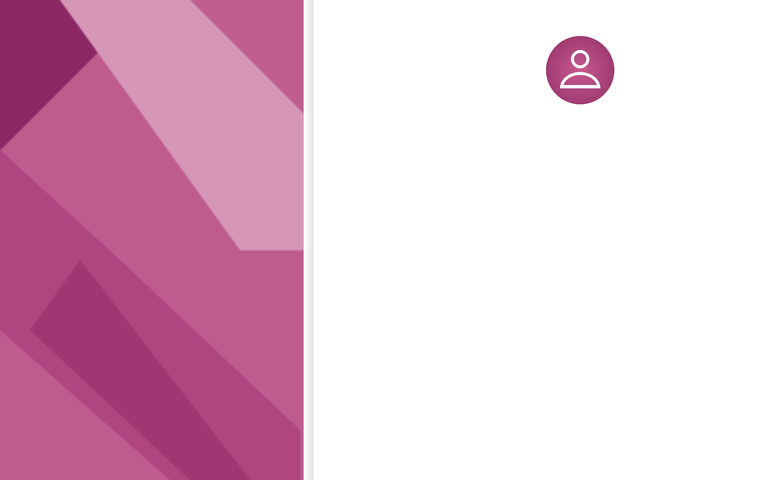
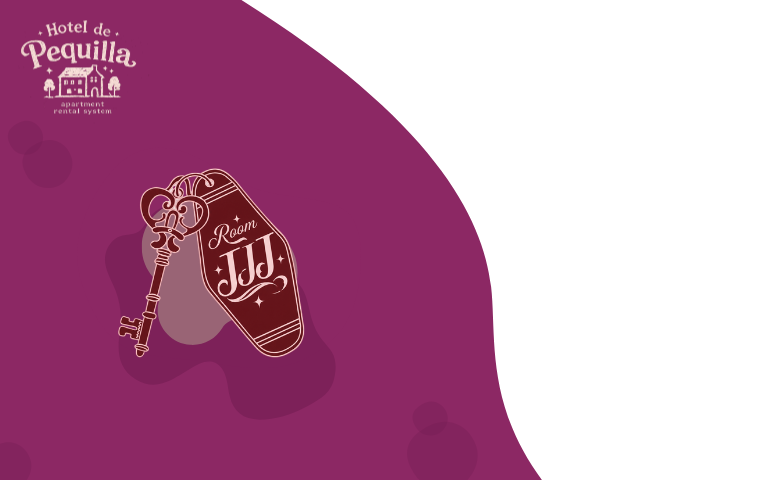
Final design for Log-In

diff --git a/src/ui/LoginFrame.java b/src/ui/LoginFrame.java
@@ -1,16 +1,25 @@
 package ui;
 
 import dao.UserDAO;
+import java.awt.Color;
+import java.awt.Dimension;
 import java.sql.SQLException;
+import javax.swing.BorderFactory;
 import javax.swing.JOptionPane;
 import model.User;
 import util.ErrorHelper;
 import util.Session;
 import util.Validator;
-import java.awt.Color;
-import java.awt.Dimension;
 
+
+ 
 public class LoginFrame extends javax.swing.JFrame {
+
+
+    private static final Color PLUM   = new Color(140, 40, 100);   
+    private static final Color MAUVE  = new Color(153, 100, 117);  
+    private static final Color MAROON = new Color(100, 20, 26);    
+    private static final Color LINE   = new Color(190, 160, 180);  
 
     private final UserDAO userDao = new UserDAO();
 
@@ -19,22 +28,34 @@ public class LoginFrame extends javax.swing.JFrame {
         initComponents();
 
         setDefaultCloseOperation(EXIT_ON_CLOSE);
-        getRootPane().setDefaultButton(btnLogin);
-        getContentPane().setPreferredSize(new Dimension(760, 480));    // your picture's size
+        setResizable(false);
+        getRootPane().setDefaultButton(btnLogin);                      
+        getContentPane().setPreferredSize(new Dimension(760, 480));    
         pack();
         setLocationRelativeTo(null);
 
-        // button colors (Windows needs this one line each)
-        PillButtonUI.apply(btnLogin, new Color(190, 92, 142), Color.WHITE);
-        PillButtonUI.apply(btnClear, new Color(160, 160, 160), Color.WHITE);
-        PillButtonUI.apply(btnExit,  new Color(190, 50, 50),  Color.WHITE);
+
+        for (javax.swing.JTextField t : new javax.swing.JTextField[]{txtUsername, txtPassword}) {
+            t.setForeground(Theme.TEXT);
+            t.setCaretColor(PLUM);
+            t.setBorder(BorderFactory.createCompoundBorder(
+                    BorderFactory.createLineBorder(LINE),
+                    BorderFactory.createEmptyBorder(4, 8, 4, 8)));
+        }
+
+
+        PillButtonUI.apply(btnLogin, PLUM,   Color.WHITE);
+        PillButtonUI.apply(btnClear, MAUVE,  Color.WHITE);
+        PillButtonUI.apply(btnExit,  MAROON, Color.WHITE);
 
         txtUsername.requestFocus();
     }
+
     // <editor-fold defaultstate="collapsed" desc="Generated Code">//GEN-BEGIN:initComponents
     private void initComponents() {
 
-        lblTitle = new javax.swing.JLabel();
+        lblWelcome = new javax.swing.JLabel();
+        lblSubtitle = new javax.swing.JLabel();
         lblUsername = new javax.swing.JLabel();
         txtUsername = new javax.swing.JTextField();
         lblPassword = new javax.swing.JLabel();
@@ -42,92 +63,87 @@ public class LoginFrame extends javax.swing.JFrame {
         btnLogin = new javax.swing.JButton();
         btnClear = new javax.swing.JButton();
         btnExit = new javax.swing.JButton();
-        jLabel1 = new javax.swing.JLabel();
 
         setDefaultCloseOperation(javax.swing.WindowConstants.EXIT_ON_CLOSE);
-        setTitle("LOGIN");
-        setBackground(new java.awt.Color(51, 0, 51));
-        setForeground(java.awt.Color.yellow);
-        setPreferredSize(new java.awt.Dimension(760, 480));
-        setResizable(false);
-        setSize(new java.awt.Dimension(21, 12));
+        setTitle("Login");
 
-        lblTitle.setFont(new java.awt.Font("Segoe UI", 1, 14)); // NOI18N
-        lblTitle.setForeground(new java.awt.Color(255, 0, 153));
-        lblTitle.setText("APARTMENT RENTAL MANAGEMENT SYSTEM");
+        lblWelcome.setFont(new java.awt.Font("Georgia", 1, 28)); // NOI18N
+        lblWelcome.setForeground(new java.awt.Color(140, 40, 100));
+        lblWelcome.setText("Welcome");
 
-        lblUsername.setText("Username:");
+        lblSubtitle.setForeground(new java.awt.Color(130, 110, 125));
+        lblSubtitle.setText("Sign in to continue");
 
-        txtUsername.setText("Enter your username");
-        txtUsername.setBorder(javax.swing.BorderFactory.createLineBorder(new java.awt.Color(0, 0, 0)));
+        lblUsername.setFont(new java.awt.Font("Segoe UI", 1, 11)); // NOI18N
+        lblUsername.setForeground(new java.awt.Color(60, 40, 55));
+        lblUsername.setText("USERNAME");
+
+        txtUsername.setFont(new java.awt.Font("Segoe UI", 0, 13)); // NOI18N
         txtUsername.addActionListener(this::txtUsernameActionPerformed);
 
-        lblPassword.setText("Password:");
+        lblPassword.setFont(new java.awt.Font("Segoe UI", 1, 11)); // NOI18N
+        lblPassword.setForeground(new java.awt.Color(60, 40, 55));
+        lblPassword.setText("PASSWORD");
 
-        txtPassword.setBorder(javax.swing.BorderFactory.createLineBorder(new java.awt.Color(0, 0, 0)));
+        txtPassword.setFont(new java.awt.Font("Segoe UI", 0, 13)); // NOI18N
 
-        btnLogin.setText("LOGIN");
+        btnLogin.setFont(new java.awt.Font("Segoe UI", 1, 13)); // NOI18N
+        btnLogin.setText("LOG IN");
         btnLogin.addActionListener(this::btnLoginActionPerformed);
 
+        btnClear.setFont(new java.awt.Font("Segoe UI", 1, 12)); // NOI18N
         btnClear.setText("CLEAR");
         btnClear.addActionListener(this::btnClearActionPerformed);
 
+        btnExit.setFont(new java.awt.Font("Segoe UI", 1, 12)); // NOI18N
         btnExit.setText("EXIT");
         btnExit.addActionListener(this::btnExitActionPerformed);
-
-        jLabel1.setFont(new java.awt.Font("Segoe UI Semibold", 0, 14)); // NOI18N
-        jLabel1.setForeground(new java.awt.Color(255, 0, 200));
-        jLabel1.setText("LOG-IN");
 
         javax.swing.GroupLayout layout = new javax.swing.GroupLayout(getContentPane());
         getContentPane().setLayout(layout);
         layout.setHorizontalGroup(
             layout.createParallelGroup(javax.swing.GroupLayout.Alignment.LEADING)
             .addGroup(javax.swing.GroupLayout.Alignment.TRAILING, layout.createSequentialGroup()
-                .addContainerGap(375, Short.MAX_VALUE)
+                .addContainerGap(533, Short.MAX_VALUE)
                 .addGroup(layout.createParallelGroup(javax.swing.GroupLayout.Alignment.LEADING)
                     .addGroup(layout.createSequentialGroup()
-                        .addGroup(layout.createParallelGroup(javax.swing.GroupLayout.Alignment.TRAILING)
-                            .addComponent(lblPassword)
-                            .addComponent(lblUsername))
-                        .addPreferredGap(javax.swing.LayoutStyle.ComponentPlacement.RELATED)
-                        .addGroup(layout.createParallelGroup(javax.swing.GroupLayout.Alignment.LEADING, false)
-                            .addComponent(txtUsername)
-                            .addComponent(txtPassword, javax.swing.GroupLayout.PREFERRED_SIZE, 176, javax.swing.GroupLayout.PREFERRED_SIZE)))
-                    .addComponent(lblTitle)
-                    .addGroup(layout.createSequentialGroup()
-                        .addGap(2, 2, 2)
-                        .addGroup(layout.createParallelGroup(javax.swing.GroupLayout.Alignment.LEADING, false)
-                            .addComponent(btnLogin, javax.swing.GroupLayout.PREFERRED_SIZE, 241, javax.swing.GroupLayout.PREFERRED_SIZE)
-                            .addGroup(layout.createSequentialGroup()
-                                .addComponent(btnExit, javax.swing.GroupLayout.PREFERRED_SIZE, 112, javax.swing.GroupLayout.PREFERRED_SIZE)
-                                .addPreferredGap(javax.swing.LayoutStyle.ComponentPlacement.RELATED)
-                                .addComponent(btnClear, javax.swing.GroupLayout.PREFERRED_SIZE, 123, javax.swing.GroupLayout.PREFERRED_SIZE))))
-                    .addComponent(jLabel1))
-                .addGap(78, 78, 78))
+                        .addComponent(lblWelcome)
+                        .addPreferredGap(javax.swing.LayoutStyle.ComponentPlacement.RELATED, 35, javax.swing.GroupLayout.PREFERRED_SIZE))
+                    .addGroup(javax.swing.GroupLayout.Alignment.TRAILING, layout.createParallelGroup(javax.swing.GroupLayout.Alignment.LEADING)
+                        .addComponent(lblSubtitle)
+                        .addComponent(lblUsername)
+                        .addComponent(txtUsername, javax.swing.GroupLayout.PREFERRED_SIZE, 170, javax.swing.GroupLayout.PREFERRED_SIZE)
+                        .addComponent(lblPassword)
+                        .addComponent(txtPassword, javax.swing.GroupLayout.PREFERRED_SIZE, 170, javax.swing.GroupLayout.PREFERRED_SIZE)
+                        .addComponent(btnLogin, javax.swing.GroupLayout.PREFERRED_SIZE, 170, javax.swing.GroupLayout.PREFERRED_SIZE)
+                        .addGroup(layout.createSequentialGroup()
+                            .addComponent(btnClear, javax.swing.GroupLayout.PREFERRED_SIZE, 80, javax.swing.GroupLayout.PREFERRED_SIZE)
+                            .addGap(10, 10, 10)
+                            .addComponent(btnExit, javax.swing.GroupLayout.PREFERRED_SIZE, 80, javax.swing.GroupLayout.PREFERRED_SIZE))))
+                .addGap(33, 33, 33))
         );
         layout.setVerticalGroup(
             layout.createParallelGroup(javax.swing.GroupLayout.Alignment.LEADING)
             .addGroup(layout.createSequentialGroup()
-                .addGap(127, 127, 127)
-                .addComponent(lblTitle)
-                .addGap(42, 42, 42)
-                .addComponent(jLabel1)
-                .addPreferredGap(javax.swing.LayoutStyle.ComponentPlacement.UNRELATED)
-                .addGroup(layout.createParallelGroup(javax.swing.GroupLayout.Alignment.BASELINE)
-                    .addComponent(lblUsername)
-                    .addComponent(txtUsername, javax.swing.GroupLayout.PREFERRED_SIZE, javax.swing.GroupLayout.DEFAULT_SIZE, javax.swing.GroupLayout.PREFERRED_SIZE))
+                .addGap(57, 57, 57)
+                .addComponent(lblWelcome)
                 .addPreferredGap(javax.swing.LayoutStyle.ComponentPlacement.RELATED)
+                .addComponent(lblSubtitle)
+                .addGap(28, 28, 28)
+                .addComponent(lblUsername)
+                .addGap(4, 4, 4)
+                .addComponent(txtUsername, javax.swing.GroupLayout.PREFERRED_SIZE, 34, javax.swing.GroupLayout.PREFERRED_SIZE)
+                .addGap(14, 14, 14)
+                .addComponent(lblPassword)
+                .addGap(4, 4, 4)
+                .addComponent(txtPassword, javax.swing.GroupLayout.PREFERRED_SIZE, 34, javax.swing.GroupLayout.PREFERRED_SIZE)
+                .addGap(22, 22, 22)
+                .addComponent(btnLogin, javax.swing.GroupLayout.PREFERRED_SIZE, 40, javax.swing.GroupLayout.PREFERRED_SIZE)
+                .addGap(10, 10, 10)
                 .addGroup(layout.createParallelGroup(javax.swing.GroupLayout.Alignment.BASELINE)
-                    .addComponent(lblPassword)
-                    .addComponent(txtPassword, javax.swing.GroupLayout.PREFERRED_SIZE, javax.swing.GroupLayout.DEFAULT_SIZE, javax.swing.GroupLayout.PREFERRED_SIZE))
-                .addPreferredGap(javax.swing.LayoutStyle.ComponentPlacement.UNRELATED)
-                .addComponent(btnLogin)
-                .addPreferredGap(javax.swing.LayoutStyle.ComponentPlacement.RELATED)
-                .addGroup(layout.createParallelGroup(javax.swing.GroupLayout.Alignment.BASELINE)
-                    .addComponent(btnExit)
-                    .addComponent(btnClear))
-                .addContainerGap(264, Short.MAX_VALUE))
+                    .addComponent(btnClear, javax.swing.GroupLayout.PREFERRED_SIZE, 36, javax.swing.GroupLayout.PREFERRED_SIZE)
+                    .addComponent(btnExit, javax.swing.GroupLayout.PREFERRED_SIZE, 36, javax.swing.GroupLayout.PREFERRED_SIZE))
+                .addContainerGap(57, Short.MAX_VALUE))
         );
 
         pack();
@@ -135,30 +151,30 @@ public class LoginFrame extends javax.swing.JFrame {
 
     private void btnLoginActionPerformed(java.awt.event.ActionEvent evt) {//GEN-FIRST:event_btnLoginActionPerformed
         String username = txtUsername.getText().trim();
-        String password = new String(txtPassword.getPassword());   // JPasswordField gives char[]
+        String password = new String(txtPassword.getPassword());   
 
-        // 1. validate
+
         if (Validator.isEmpty(username) || Validator.isEmpty(password)) {
             JOptionPane.showMessageDialog(this, "Please enter your username and password.",
                     "Validation", JOptionPane.WARNING_MESSAGE);
             return;
         }
-        // 2. ask the DAO (frames never write SQL)
+
         try {
             User user = userDao.authenticate(username, password);
-            if (user == null) {                                      // wrong login OR Inactive account
+            if (user == null) {                                    
                 JOptionPane.showMessageDialog(this, "Invalid username or password.",
                         "Login Failed", JOptionPane.ERROR_MESSAGE);
                 txtPassword.setText("");
                 txtPassword.requestFocus();
                 return;
             }
-            // 3. success: remember who logged in, swap screens
+
             Session.login(user);
             dispose();
             new DashboardFrame().setVisible(true);
         } catch (SQLException ex) {
-            ErrorHelper.show(this, ex);                              // friendly "Is Derby running?" message
+            ErrorHelper.show(this, ex);                              
         }
     }//GEN-LAST:event_btnLoginActionPerformed
 
@@ -175,18 +191,17 @@ public class LoginFrame extends javax.swing.JFrame {
     }//GEN-LAST:event_btnExitActionPerformed
 
     private void txtUsernameActionPerformed(java.awt.event.ActionEvent evt) {//GEN-FIRST:event_txtUsernameActionPerformed
-        // TODO add your handling code here:
+        txtPassword.requestFocus();     
     }//GEN-LAST:event_txtUsernameActionPerformed
-
 
     // Variables declaration - do not modify//GEN-BEGIN:variables
     private javax.swing.JButton btnClear;
     private javax.swing.JButton btnExit;
     private javax.swing.JButton btnLogin;
-    private javax.swing.JLabel jLabel1;
     private javax.swing.JLabel lblPassword;
-    private javax.swing.JLabel lblTitle;
+    private javax.swing.JLabel lblSubtitle;
     private javax.swing.JLabel lblUsername;
+    private javax.swing.JLabel lblWelcome;
     private javax.swing.JPasswordField txtPassword;
     private javax.swing.JTextField txtUsername;
     // End of variables declaration//GEN-END:variables
